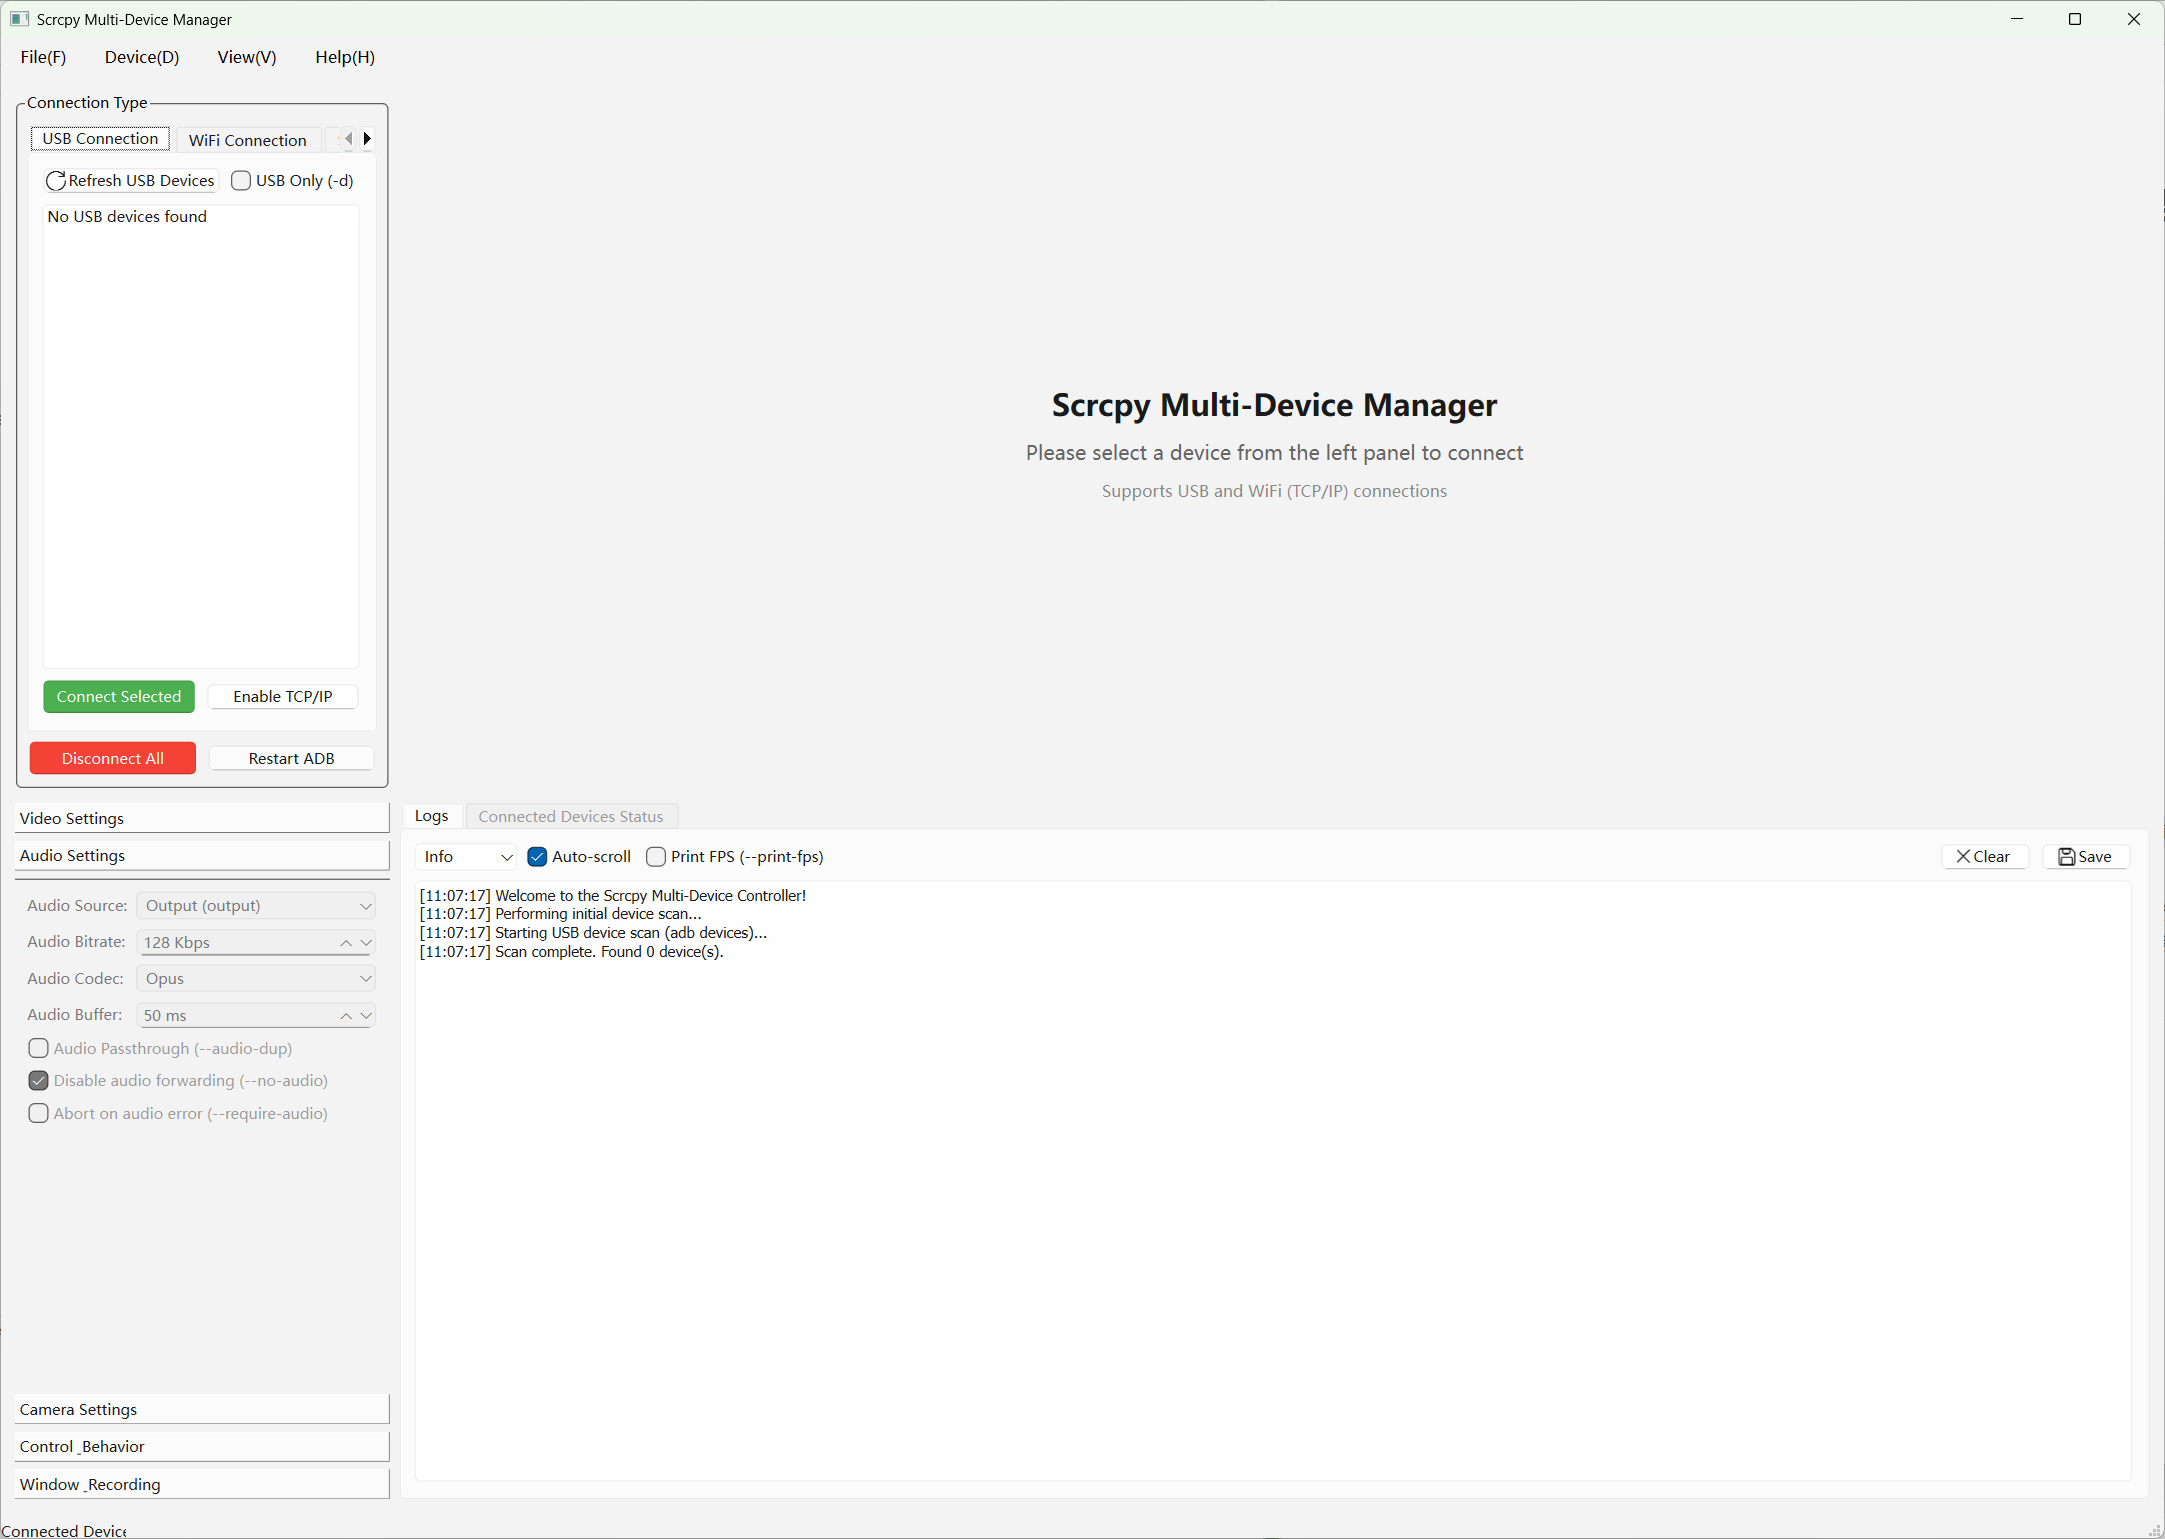
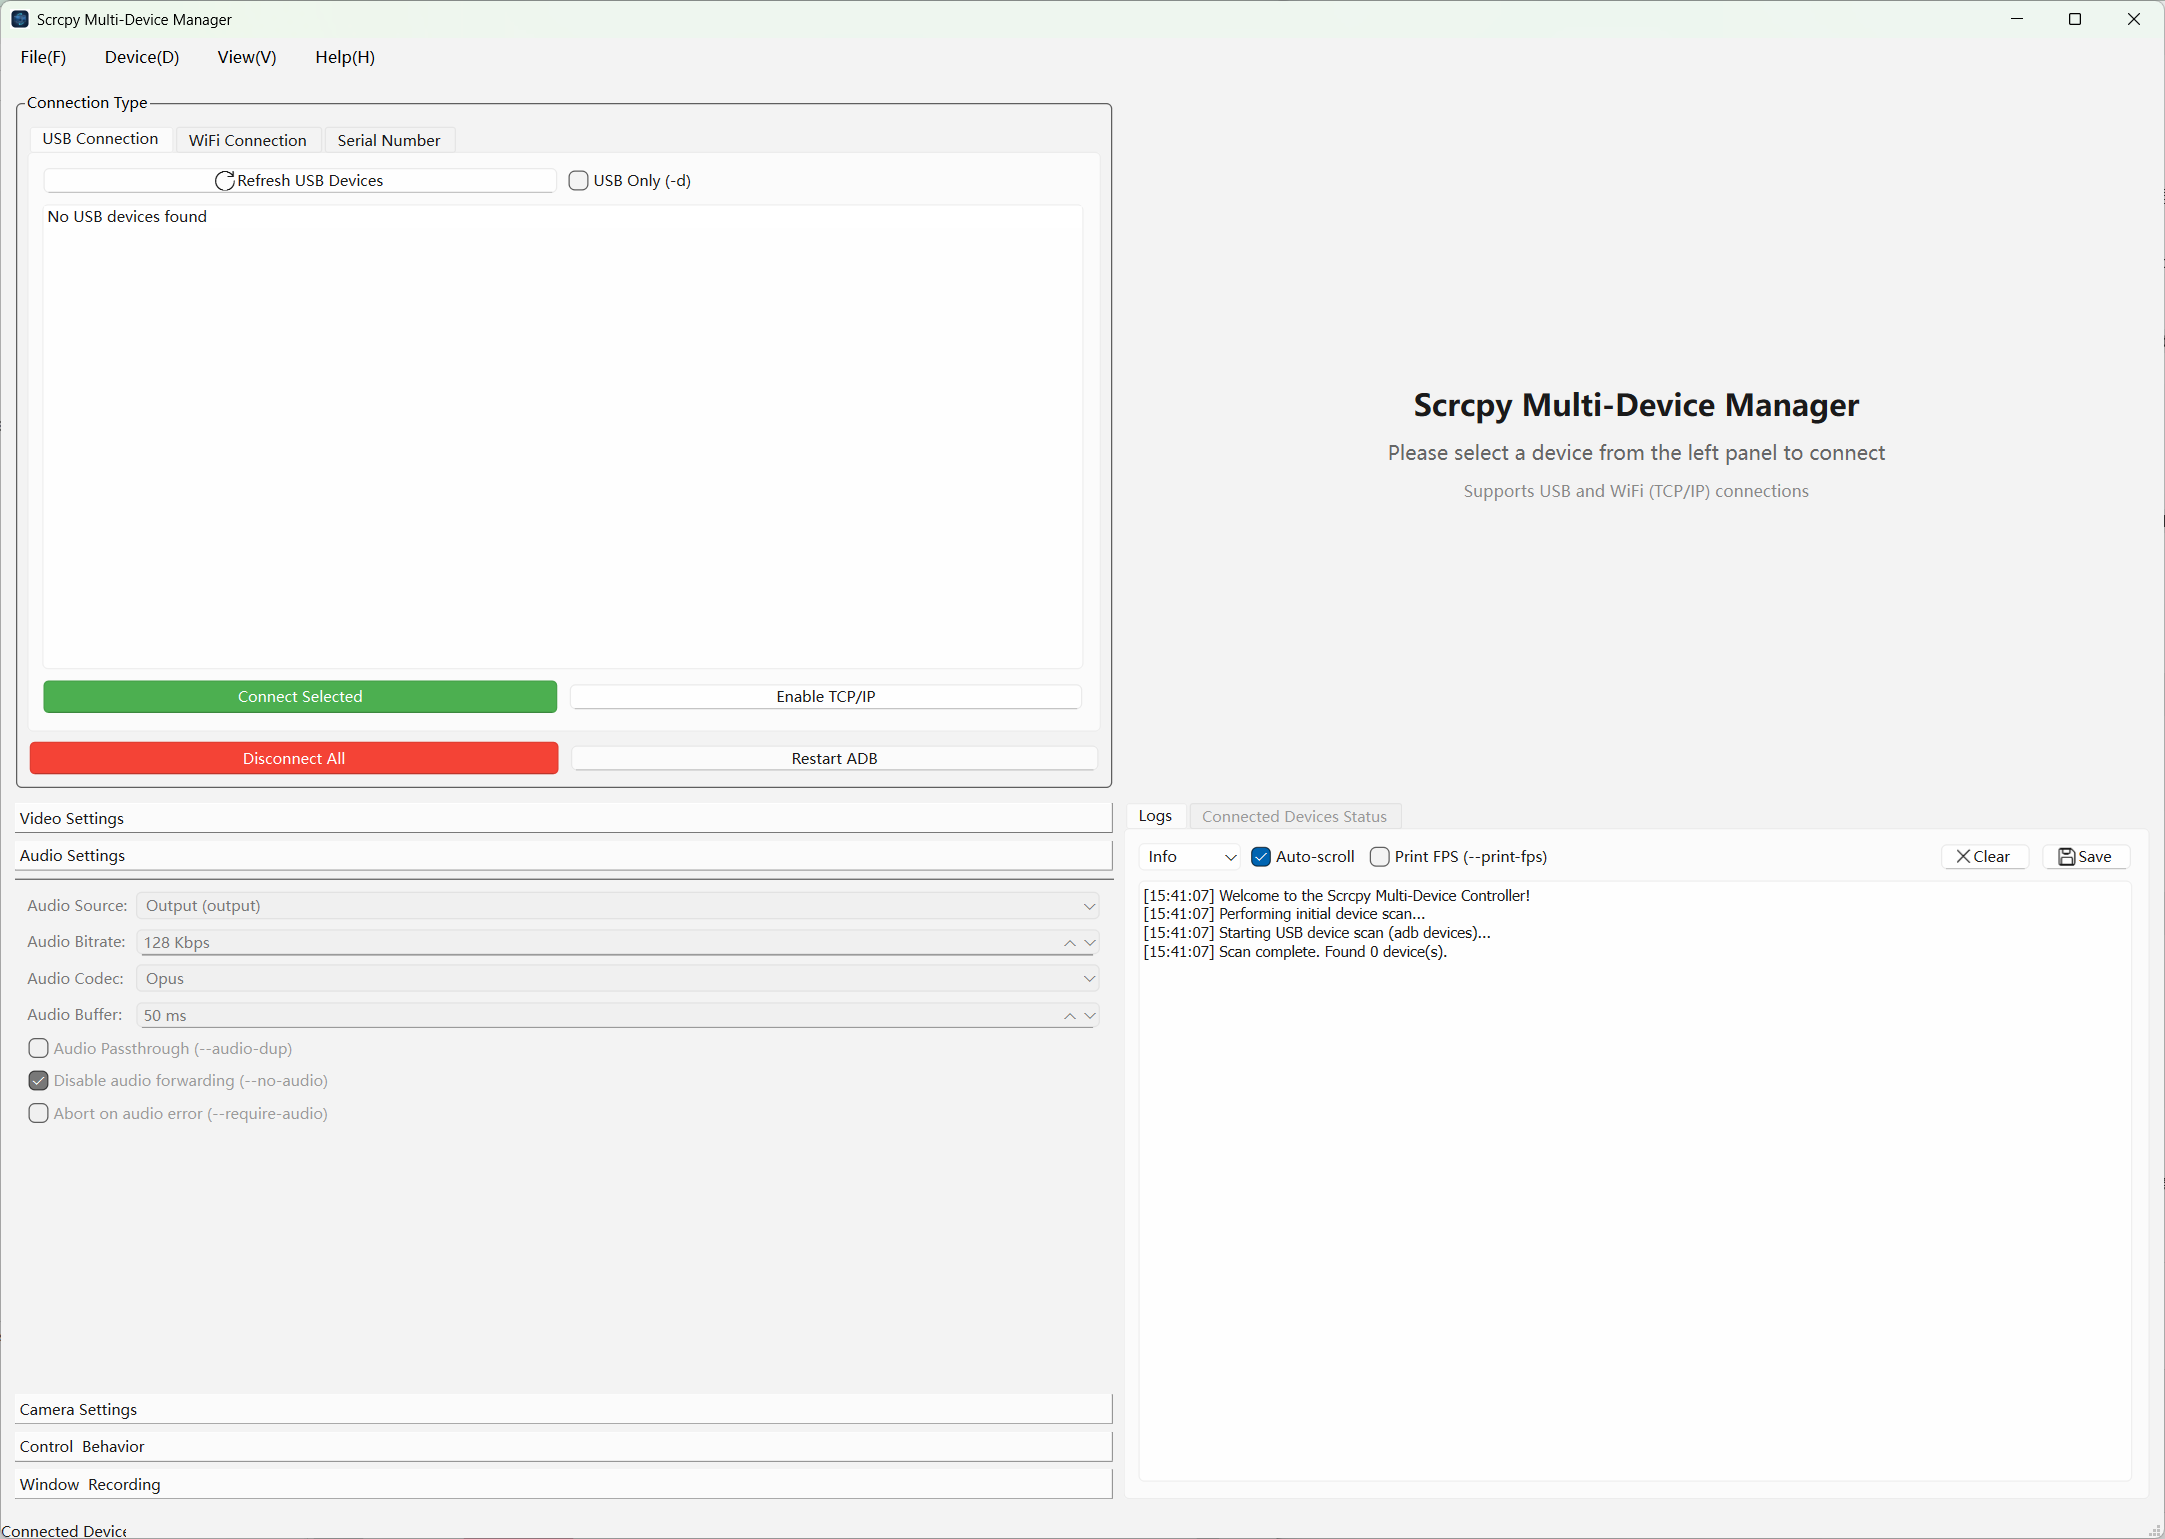
add ico

diff --git a/mainwindow.cpp b/mainwindow.cpp
@@ -18,6 +18,7 @@ MainWindow::MainWindow(QWidget *parent) :
     ui(new Ui::MainWindow)
 {
     ui->setupUi(this);
+    setWindowIcon(QIcon(":/assert/title.ico"));
 
     // --- Connect buttons from the left panel and log panel ---
     connect(ui->btn_connectUSB,     &QPushButton::clicked, this, &MainWindow::handleConnectUsbClick);

diff --git a/devicewindow.cpp b/devicewindow.cpp
@@ -24,6 +24,7 @@ DeviceWindow::DeviceWindow(const QString &serial, const ScrcpyOptions &options, 
     mCurrentFrameSize(0, 0)
 {
     ui->setupUi(this);
+    setWindowIcon(QIcon(":/assert/title.ico"));
 
     // Apply window settings
     if (!mOptions.window_title.isEmpty()) {
